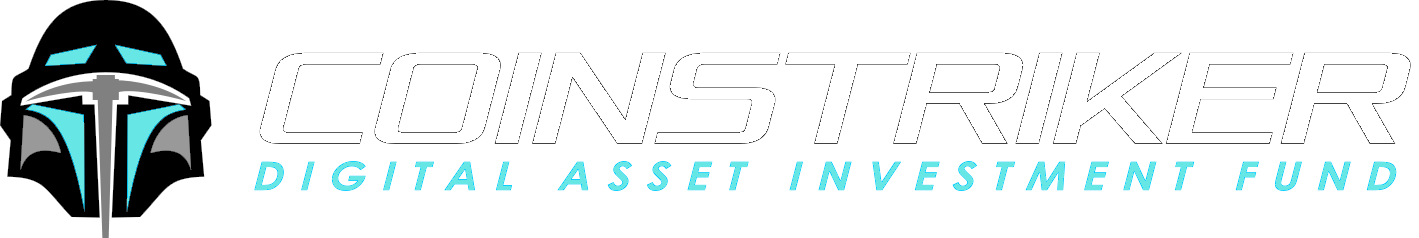
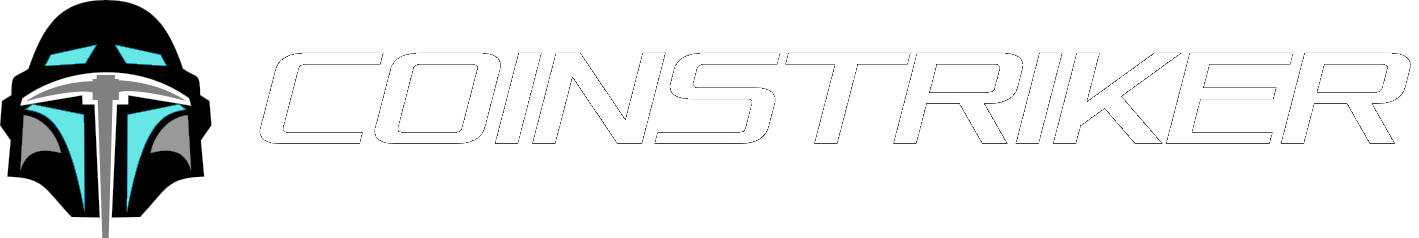
Update Navbar with image

Changed region(s): [[0.5581, 0.6765, 0.9922, 0.8235], [0.155, 0.6765, 0.5271, 0.8235]]

diff --git a/src/components/header.jsx b/src/components/header.jsx
@@ -9,7 +9,7 @@ export class Header extends Component {
             <div className="container">
               <div className="row">
                 <div className="col-md-8 col-md-offset-2 intro-text">
-                  <div> <img src="img/header.png" className="img-responsive" alt=""/></div>
+                  <div> <img src="img/header-w.png" className="img-responsive" alt=""/></div>
                   <a
                     href="#contact"
                     className="btn btn-custom btn-lg page-scroll"

diff --git a/src/components/navigation.jsx b/src/components/navigation.jsx
@@ -18,9 +18,7 @@ export class Navigation extends Component {
               <span className="icon-bar"></span>{" "}
               <span className="icon-bar"></span>{" "}
             </button>
-            <a className="navbar-brand page-scroll" href="#page-top">
-              CoinStriker
-            </a>{" "}
+            <div> <img src="img/header.png" alt=""/></div>
           </div>
 
           <div
